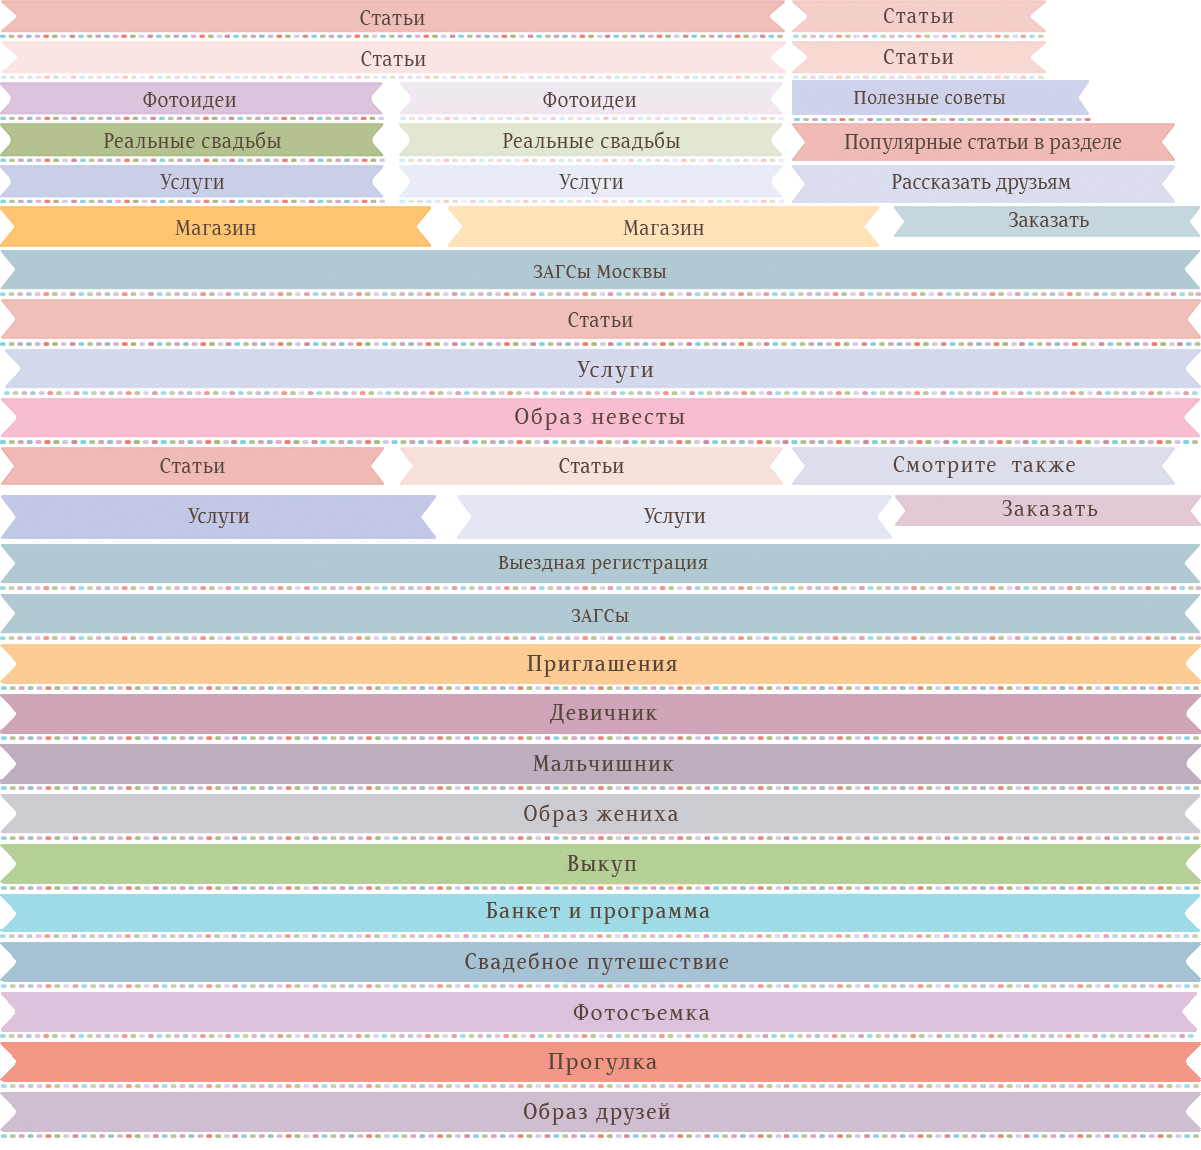
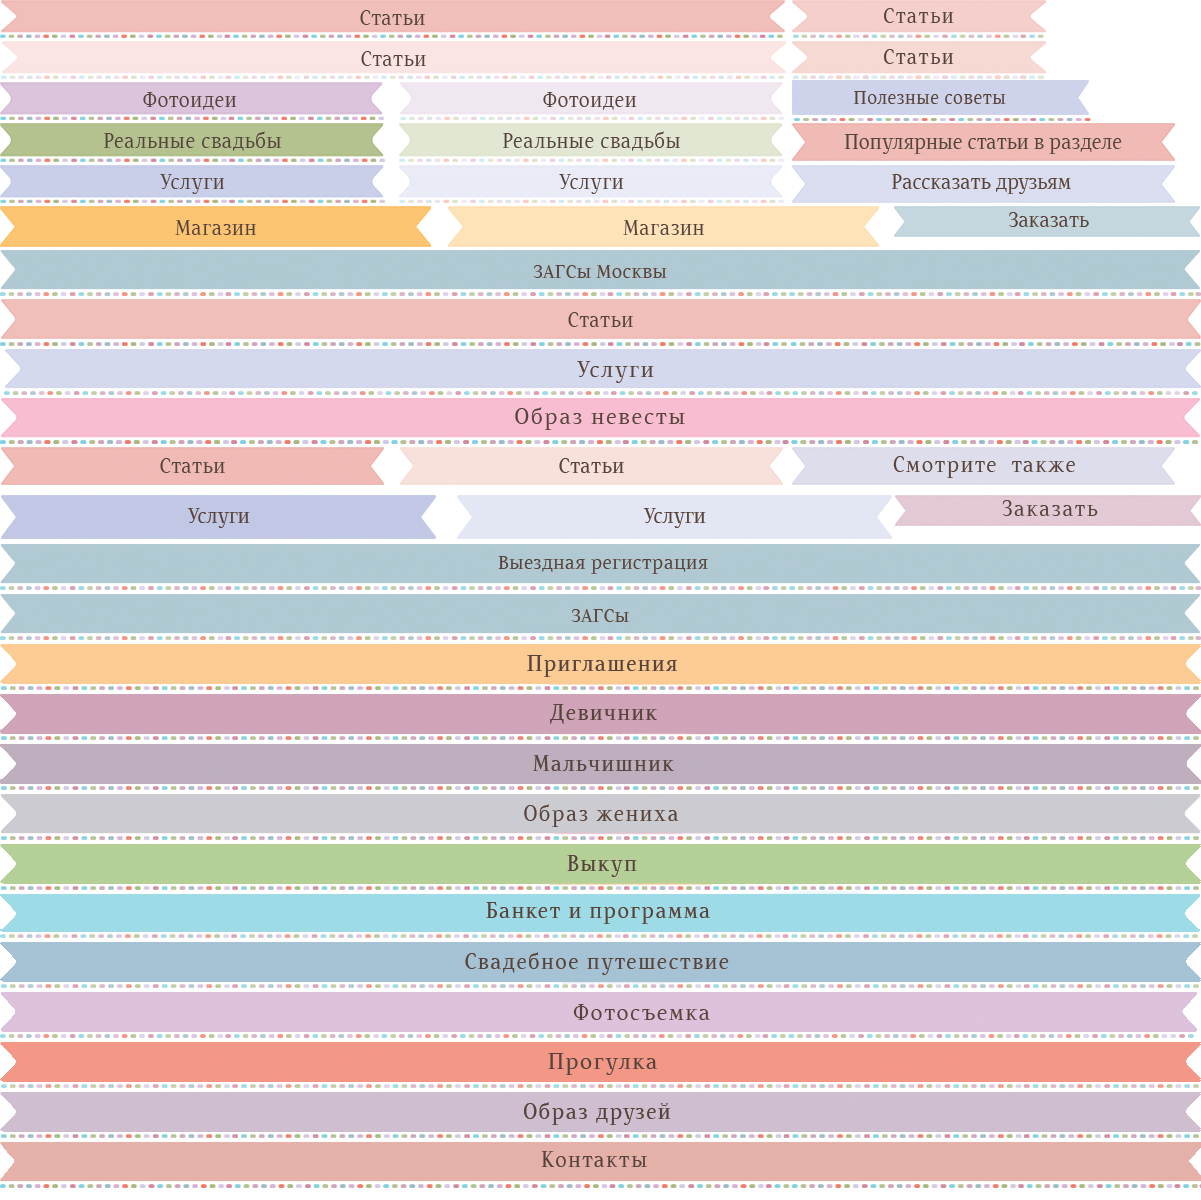
+ contacts.html page

diff --git a/contacts.html b/contacts.html
@@ -1,0 +1,205 @@
+<!DOCTYPE html>
+<html>
+<head>
+    <meta charset="utf-8"/>
+    <meta name="viewport" content="width=1326, initial-scale=1">
+    <title>Свадебный портал №1</title>
+    <link rel="stylesheet" href="css/style.css"/>
+    <script src="js/jquery-2.1.1.min.js"></script>
+    <script src="js/jquery.main.js"></script>
+</head>
+<body>
+    <div id="wrapper">
+        <header id="header">
+            <div class="top-bar">
+                <div class="center-container">
+                    <form class="search-form" action="#">
+                        <fieldset>
+                            <input type="text" placeholder="Поиск"/>
+                            <input type="submit" value="Найти"/>
+                        </fieldset>
+                    </form>
+                    <ul class="menu">
+                        <li><a href="#">Вход</a></li>
+                        <li><a href="#">О проекте</a></li>
+                        <li><a href="#">Контакты</a></li>
+                    </ul>
+                    <ul class="social">
+                        <li class="vk"><a href="#" title="Вконтакте">Вконтакте</a></li>
+                        <li class="fb"><a href="#" title="Facebook">Facebook</a></li>
+                        <li class="twit"><a href="#" title="Twitter">Twitter</a></li>
+                        <li class="inst"><a href="#" title="Instagram">Instagram</a></li>
+                        <li class="pint"><a href="#" title="Pinterest">Pinterest</a></li>
+                    </ul>
+                </div>
+            </div>
+            <div class="logo-holder">
+                <strong><a class="logo" href="#" title="Свадебный портал №1">Свадебный портал №1</a></strong>
+            </div>
+            <nav class="main-nav">
+                <ul id="nav">
+                    <li class="invitations">
+                        <a href="#"><span>Приглашения</span></a>
+                    </li>
+                    <li class="wedding-look has-drop">
+                        <a href="#"><span>Свадебный образ</span></a>
+                        <ul class="drop">
+                            <li><a href="#">Невеста</a></li>
+                            <li><a href="#">Жених</a></li>
+                            <li><a href="#">Друзья</a></li>
+                        </ul>
+                    </li>
+                    <li class="register has-drop">
+                        <a href="#"><span>ЗАГС и Выездная регистрация</span></a>
+                        <ul class="drop">
+                            <li><a href="#">ЗАГС</a></li>
+                            <li><a href="#">Выездная регистрация</a></li>
+                        </ul>
+                    </li>
+                    <li class="party has-drop">
+                        <a href="#"><span>Девичник и мальчишник</span></a>
+                        <ul class="drop">
+                            <li><a href="#">Девичник</a></li>
+                            <li><a href="#">Мальчишник</a></li>
+                        </ul>
+                    </li>
+                    <li class="buyout">
+                        <a href="#"><span>Выкуп</span></a>
+                    </li>
+                    <li class="banket">
+                        <a href="#"><span>Банкет и программа</span></a>
+                    </li>
+                    <li class="photography has-drop">
+                        <a href="#"><span>Фотосъемка и видеосъемка</span></a>
+                        <ul class="drop">
+                            <li><a href="#">Фотосъемка</a></li>
+                            <li><a href="#">Видеосъемка</a></li>
+                        </ul>
+                    </li>
+                    <li class="walk">
+                        <a href="#"><span>Прогулка</span></a>
+                    </li>
+                    <li class="wedding-night">
+                        <a href="#"><span>Первая брачная ночь</span></a>
+                    </li>
+                    <li class="tour">
+                        <a href="#"><span>Свадебное путешествие</span></a>
+                    </li>
+                </ul>
+                <ul class="add-links">
+                    <li class="shop"><a href="#">Магазин</a></li>
+                    <li class="services"><a href="#">Услуги</a></li>
+                    <li class="articles"><a href="#">Статьи</a></li>
+                </ul>
+            </nav>
+        </header>
+        <main id="main">
+            <div class="container">
+                <strong class="title title title-contacts-wide"><span>Контакты</span></strong>
+                <div class="content">
+                    <article class="article contacts">
+                        <div class="entry">
+                            <hr/>
+                            <div class="content-block">
+                                <h2>Молодоженам</h2>
+                                <p>По вопросам заказа услуг, выбора специалистов звоните по телефону 8 (926) 111 - 18 - 03, <br/> обращайтесь по адресу:
+                                    <a href="mailto:&#122;&#097;&#107;&#097;&#122;&#064;&#108;&#112;&#111;&#114;&#116;&#097;&#108;&#046;&#114;&#117;">&#122;&#097;&#107;&#097;&#122;&#064;&#108;&#112;&#111;&#114;&#116;&#097;&#108;&#046;&#114;&#117</a></p>
+                                <p>Мы будем рады, если на "Свадебный портал №1" вы поделитесь отчетом о вашей свадьбе. <br/>
+                                    Чтобы отправить отчет, заполните, пожалуйста, форму.</p>
+                                <a class="btn-order color-white" href="#">Отправить отчет</a>
+                            </div>
+                            <hr/>
+                            <div class="content-block">
+                                <h2>Профессионализм</h2>
+                                <p>По вопросам рекламы на сайте, партнерским взаимоотношениям, а также размещения Ваших работ на сайте, обращайтесь <br/> по адресу: <strong>&#112;&#114;&#111;&#102;&#108;&#064;&#108;&#112;&#111;&#114;&#116;&#097;&#108;&#046;&#114;&#117;</strong></p>
+                                <p>Зарегистрироваться как профессионал, можно заполнив форму.</p>
+                                <a class="btn-order color-white" href="#">Заполнить форму</a>
+                            </div>
+                            <hr/>
+                            <div class="content-block">
+                                <h2>Общие вопросы и пожелания</h2>
+                                <p>Если у Вас есть вопрос или предложение по работе сайта, вы можете связаться с нами по адресу: <strong>&#112;&#114;&#111;&#102;&#108;&#064;&#108;&#112;&#111;&#114;&#116;&#097;&#108;&#046;&#114;&#117;</strong></p>
+                            </div>
+                            <hr/>
+                            <div class="content-block">
+                                <h2>Напишите нам</h2>
+                                <div class="contact-form">
+                                    <form action="#">
+                                        <fieldset>
+                                            <span class="row">
+                                                <label for="name">Ваше имя *</label>
+                                                <input type="text" id="name"/>
+                                            </span>
+                                            <span class="row">
+                                                <label for="phone">Телефон *</label>
+                                                <input type="text" id="phone"/>
+                                            </span>
+                                            <span class="row">
+                                                <label for="phone">E-mail</label>
+                                                <input type="text" id="email"/>
+                                            </span>
+                                            <span class="row">
+                                                <label for="comments">Комментарии</label>
+                                                <textarea id="comments" cols="30" rows="10"></textarea>
+                                            </span>
+                                            <div class="required">
+                                                <p>Поля, отмеченные звездочкой (*) обязательны для заполнения.</p>
+                                            </div>
+                                            <span class="row">
+                                                <input type="submit" value="Отправить"/>
+                                            </span>
+                                        </fieldset>
+                                    </form>
+                                </div>
+                            </div>
+                        </div>
+                    </article>
+                </div>
+            </div>
+        </main>
+        <footer id="footer">
+            <div class="holder">
+                <strong class="logo-small">
+                    <a href="#" title="Свадебный портал №1">Свадебный портал №1</a>
+                </strong>
+                <div class="column">
+                    <span class="caption">Обзор сайта</span>
+                    <ul>
+                        <li><a href="#">Свадебные сайты</a></li>
+                        <li><a href="#">Фотогаллерея</a></li>
+                        <li><a href="#">Топ пять</a></li>
+                        <li><a href="#">Реальные свадьбы</a></li>
+                        <li><a href="#">Товары</a></li>
+                    </ul>
+                </div>
+                <div class="column">
+                    <span class="caption">Drop by our sites</span>
+                    <ul>
+                        <li><a href="#">My family window</a></li>
+                        <li><a href="#">Wedding window</a></li>
+                    </ul>
+                </div>
+                <div class="column">
+                    <span class="caption">Мы в соцсетях</span>
+                    <ul class="social-links">
+                        <li class="vk"><a href="#" title="Вконтакте">Вконтакте</a></li>
+                        <li class="fb"><a href="#" title="Facebook">Facebook</a></li>
+                        <li class="twit"><a href="#" title="Твиттер">Твиттер</a></li>
+                        <li class="inst"><a href="#" title="Instagram">Instagram</a></li>
+                        <li class="pint"><a href="#" title="Pinterest">Pinterest</a></li>
+                    </ul>
+                </div>
+                <div class="column">
+                    <span class="caption">Информация</span>
+                    <ul>
+                        <li><a href="#">О нас</a></li>
+                        <li><a href="#">Контакты</a></li>
+                        <li><a href="#">Конфиденциальность</a></li>
+                        <li><a href="#">Условия</a></li>
+                    </ul>
+                </div>
+            </div>
+        </footer>
+    </div>
+</body>
+</html>

diff --git a/css/style.css b/css/style.css
@@ -906,6 +906,15 @@ fieldset {
     background-position: 0 -1092px;
 }
 
+.title.title-contacts-wide {
+    margin-bottom: 20px;
+}
+.title.title-contacts-wide span {
+    width: 1201px;
+    height: 46px;
+    background-position: 0 -1142px;
+}
+
 .text-title {
     display: block;
     margin: 0;
@@ -1944,6 +1953,9 @@ div.see-also ul > li{
 .content .party-article .num-hr {
     background-position: 0 -42px;
 }
+.content .article.contacts hr {
+    background: url(../images/separator.png) no-repeat 50% -81px;
+}
 .content .country-article hr {
     background: url(../images/separator-blue.png) no-repeat 50% 0;
 }
@@ -2472,6 +2484,42 @@ img.smile {
     color: #56433b;
 }
 
+/* contacts page */
+.article.contacts {
+    padding-bottom: 154px;
+}
+.article.contacts .content-block a {
+    color: #bc4474;
+}
+
+.article.contacts .entry p {
+    margin: 0 0 20px;
+}
+.article.contacts .content-block {
+    padding: 0 0 65px;
+}
+.article.contacts .content-block h2 {
+    margin: 0 0 8px;
+}
+.contact-form {
+    width: 794px;
+    margin: 0 auto;
+    padding: 8px 0 0;
+}
+.contact-form label {
+    display: block;
+}
+.contact-form .row {
+    display: block;
+    margin: 0 0 14px;
+}
+.contact-form .required {
+    color: #adacad;
+    margin: -10px 0 0;
+}
+.article.contacts .contact-form .required p {
+    margin: 0 0 8px;
+}
 /* themes columns */
 .themes-columns {
     padding: 20px 0 0 0;
@@ -2743,7 +2791,6 @@ img.smile {
 .btn-order {
     display: block;
     width: 204px;
-    margin: 0 0 42px auto;
     color: #a73b67;
     text-decoration: none;
     text-align: center;
@@ -2753,6 +2800,12 @@ img.smile {
     border-radius: 3px;
     padding: 7px 0 10px;
     position: relative;
+}
+.btn-order.color-white {
+    color: #fff !important;
+}
+.page-content .contact-block .btn-order {
+    margin: 0 0 42px auto;
 }
 .btn-order:hover {
     text-decoration: underline;
@@ -3483,7 +3536,10 @@ img.smile {
 .callback-form .row input[type=text],
 .order-form .row input[type=text],
 .order-form .row input[type=email],
-.order-form textarea {
+.contact-form .row input[type=text],
+.contact-form .row input[type=email],
+.order-form textarea,
+.contact-form textarea{
     display: block;
     border: 2px solid #d79bac;
     border-radius: 2px;
@@ -3493,6 +3549,7 @@ img.smile {
     color: #222;
     font-family: Tahoma, Geneva, sans-serif;
     position: relative;
+    resize: none;
 }
 .order-form textarea {
     height: 97px;
@@ -3519,6 +3576,15 @@ img.smile {
     float: left;
     margin: 4px 0 0;
 }
+.contact-form .row input[type=text],
+.contact-form .row input[type=email],
+.contact-form textarea{
+    width: 754px;
+    background: none;
+}
+.contact-form textarea {
+    height: 97px;
+}
 .wpcf7-form .captcha-row p {
     margin: 0;
     overflow: hidden;
@@ -3535,7 +3601,8 @@ img.smile {
     display: block;
 }
 .order-form input[type=submit],
-.callback-form input[type=submit]{
+.callback-form input[type=submit],
+.contact-form input[type=submit]{
     border-radius: 5px;
     width: 97px;
     font-size: 14px;
@@ -3561,6 +3628,9 @@ img.smile {
 .order-form .captcha-row input[type=submit] {
     float: right;
     margin: 4px 0 0;
+}
+.contact-form input[type=submit] {
+    width: 108px;
 }
 .order-form .required {
     font-size: 10px;
